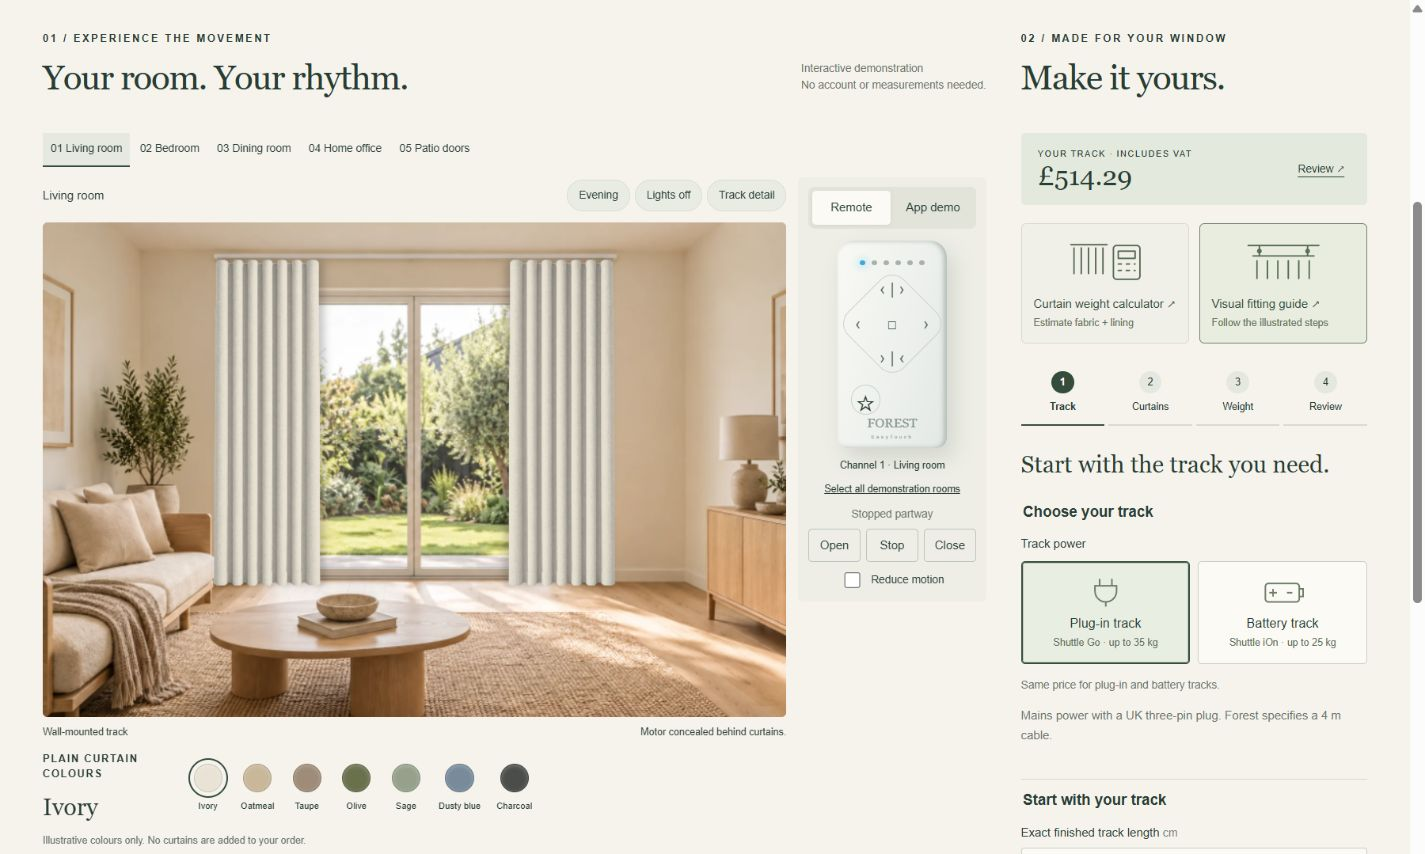
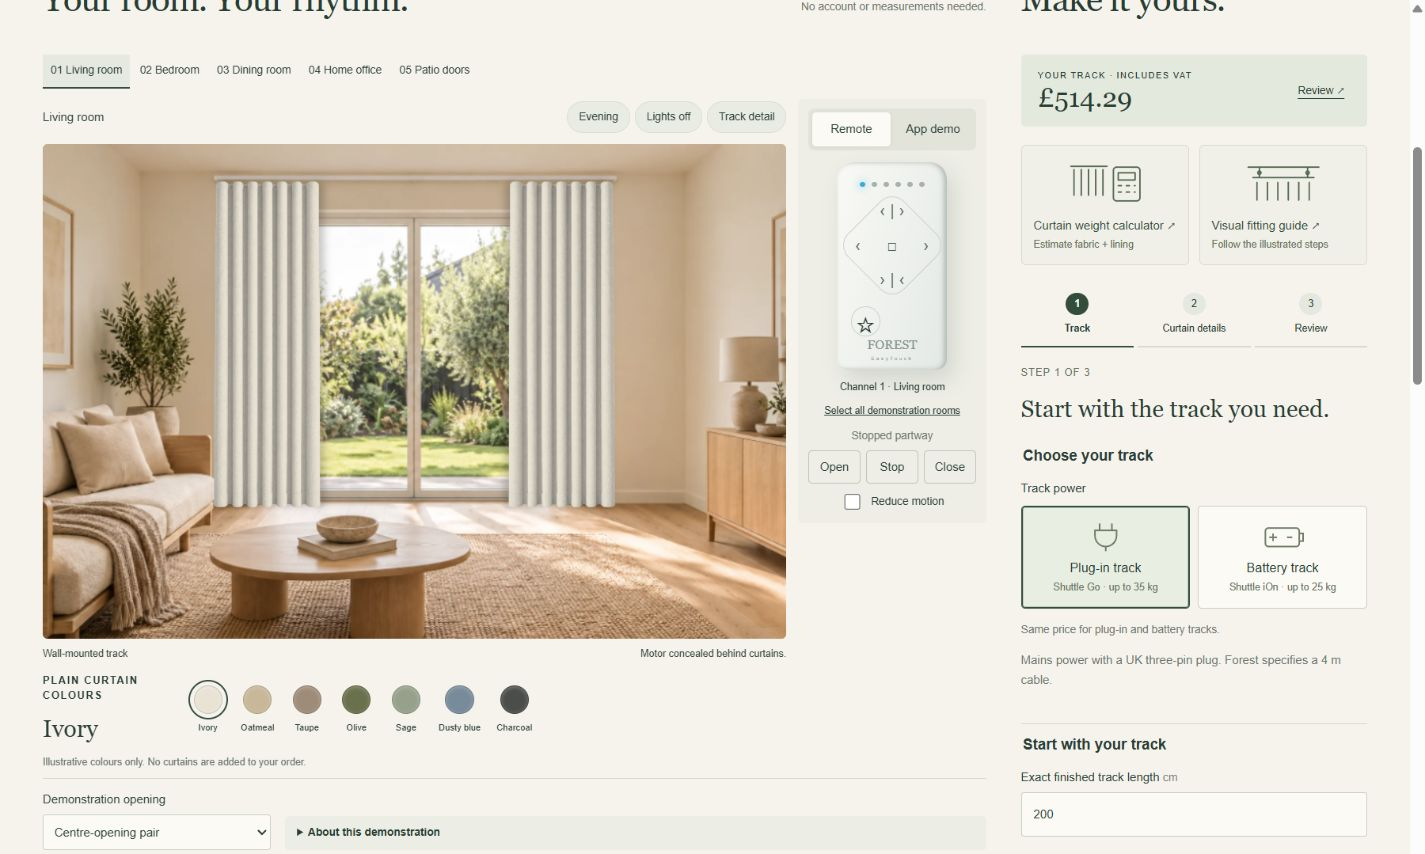
Make curtain weight optional with a clear estimate card

diff --git a/lib/smart-track/runtime/index.html b/lib/smart-track/runtime/index.html
@@ -271,8 +271,7 @@
             <button type="button" data-go-step="1">
               <span>2</span>Curtain details
             </button>
-            <button type="button" data-go-step="2"><span>3</span>Weight</button>
-            <button type="button" data-go-step="3"><span>4</span>Review</button>
+            <button type="button" data-go-step="2"><span>3</span>Review</button>
           </nav>
           <p id="step-progress" class="step-progress" role="status" hidden></p>
           <p class="step-intro" id="step-intro" tabindex="-1" hidden></p>
@@ -423,7 +422,96 @@
                 </div>
               </fieldset>
               <fieldset data-step="2">
-                <legend>Estimate curtain weight</legend>
+                <legend>Ready to save</legend>
+                <div class="two-col">
+                  <label
+                    >Track quantity<input
+                      id="quantity"
+                      type="number"
+                      min="1"
+                      max="50"
+                      step="1"
+                      value="1" /></label
+                  ><label
+                    >Room <span>optional</span
+                    ><select id="order-room">
+                      <option value="">No room assigned</option>
+                    </select></label
+                  >
+                </div>
+                <label class="check"
+                  ><input id="power-confirm" type="checkbox" />
+                  <span id="power-check-label"
+                    >I have checked the mains connection location for the
+                    motor.</span
+                  ></label
+                ><label class="check"
+                  ><input id="measurement-confirm" type="checkbox" /> I have
+                  reviewed the exact finished track length and mounting
+                  position.</label
+                ><label class="check" id="coverage-wrap" hidden
+                  ><input id="coverage-confirm" type="checkbox" /> I have
+                  checked the required track length separately from the curtain
+                  coverage.</label
+                >
+              </fieldset>
+            </form>
+            <aside
+              class="summary"
+              id="track-summary"
+              aria-labelledby="summary-title"
+              data-step="2"
+            >
+              <p class="eyebrow">YOUR SMART TRACK</p>
+              <h3 id="summary-title">Forest Shuttle Go</h3>
+              <p id="included-summary">
+                UK three-pin plug · EasyTouch six-channel remote
+              </p>
+              <dl id="summary-spec"></dl>
+              <p id="review-weight" class="fine"></p>
+              <div class="price" id="product-price" aria-live="polite">
+                Checking price…
+              </div>
+              <p class="fine">Includes VAT, motor, remote and track hardware.</p>
+              <p class="delivery">Delivery £12.95 per order, within our delivery area.</p>
+              <p id="dispatch" class="fine">Dispatch date to be confirmed.</p>
+              <p id="order-availability" class="fine" hidden>Save your track now. Checkout is not yet available.</p>
+              <button id="add-track" class="primary" disabled>
+                Add track to my order ↗
+              </button>
+              <p id="save-status" role="status"></p>
+              <a id="make-curtains" class="make-curtains" href="/pages/fabric-library?view=browse-fabrics" target="_top">Make curtains <span aria-hidden="true">↗</span></a>
+              <p class="fine">Choose a fabric and create your curtains.</p>
+              <a href="/pages/build-my-rooms" target="_top"
+                >Open Design My Home →</a
+              >
+            </aside>
+          </div>
+          <p id="step-error" class="step-error" role="alert" hidden></p>
+          <div class="step-actions" hidden>
+            <button id="step-back" type="button">← Back</button
+            ><button id="step-next" type="button" class="primary">
+              Next: curtain details →
+            </button>
+          </div>
+          <p class="configuration-assurance">
+            Cut to your length. All track hardware included.<br />Supply only ·
+            no fitting service.
+          </p>
+        </section>
+      </div>
+      <section class="optional-weight" aria-label="Optional curtain weight calculator">
+        <details id="weight-details">
+          <summary>
+            <svg viewBox="0 0 70 54" aria-hidden="true"><rect x="18" y="5" width="34" height="44" rx="4"/><path d="M25 12h20v9H25Zm0 17h4m7 0h4m-15 9h4m7 0h4"/></svg>
+            <span><strong>Check curtain weight</strong><small>Optional estimate for your curtains</small></span>
+            <span class="weight-expand" aria-hidden="true">+</span>
+          </summary>
+          <div class="weight-helper-body">
+              <fieldset id="weight-helper">
+                <legend>Your curtain details</legend>
+                <div class="weight-calculator-grid">
+                <div class="weight-fields">
                 <div class="weight-inputs two-col">
                   <label
                     >Total curtain width <span>cm, before gather</span
@@ -493,113 +581,28 @@
                     differs.
                   </p>
                 </div>
-                <p class="fine">
-                  Use the combined width of all curtains on this track. Gather 2
-                  means twice that width in fabric. For flat fabric width, enter
-                  gather 1.
-                </p>
+                <details class="weight-measure-help">
+                  <summary>How to enter your measurements</summary>
+                  <p>Use the combined width of all curtains on this track, including cloth in headings and hems. Gather 2 means twice that width in fabric. For flat fabric width, enter gather 1. Lining uses the same area and gather.</p>
+                </details>
                 <p id="saved-weight-note" class="fine" hidden>
                   A previously saved weight check is retained. Changing these
                   measurements replaces it with a fabric estimate.
                 </p>
-                <p id="weight-result" role="status">
-                  Enter the four details to see your estimate.
-                </p>
-                <p class="fine">
-                  Includes lining when its GSM is entered. Interlining, hooks
-                  and fittings add weight. Check the complete curtain weight
-                  against your motor's limit.
-                </p>
-              </fieldset>
-              <fieldset data-step="3">
-                <legend>Ready to save</legend>
-                <div class="two-col">
-                  <label
-                    >Track quantity<input
-                      id="quantity"
-                      type="number"
-                      min="1"
-                      max="50"
-                      step="1"
-                      value="1" /></label
-                  ><label
-                    >Room <span>optional</span
-                    ><select id="order-room">
-                      <option value="">No room assigned</option>
-                    </select></label
-                  >
                 </div>
-                <label class="check"
-                  ><input id="power-confirm" type="checkbox" />
-                  <span id="power-check-label"
-                    >I have checked the mains connection location for the
-                    motor.</span
-                  ></label
-                ><label class="check"
-                  ><input id="measurement-confirm" type="checkbox" /> I have
-                  reviewed the exact finished track length and mounting
-                  position.</label
-                ><label class="check" id="coverage-wrap" hidden
-                  ><input id="coverage-confirm" type="checkbox" /> I have
-                  checked the required track length separately from the curtain
-                  coverage.</label
-                >
+                <div id="weight-result" role="status" aria-atomic="true">
+                  <span id="weight-result-label">Estimated weight per track</span>
+                  <strong id="weight-total" class="weight-total is-empty">Not calculated</strong>
+                  <p id="weight-result-detail">Enter width, height, gather and fabric GSM to see your estimate.</p>
+                  <p class="weight-guide-note">Guide only, not an exact curtain weight.</p>
+                  <p class="weight-result-footnote">Interlining, hooks and fittings add weight. Weigh the complete curtains to confirm the load.</p>
+                </div>
+                </div>
               </fieldset>
-            </form>
-            <aside
-              class="summary"
-              id="track-summary"
-              aria-labelledby="summary-title"
-              data-step="3"
-            >
-              <p class="eyebrow">YOUR SMART TRACK</p>
-              <h3 id="summary-title">Forest Shuttle Go</h3>
-              <p id="included-summary">
-                UK three-pin plug · EasyTouch six-channel remote
-              </p>
-              <dl id="summary-spec"></dl>
-              <p id="review-weight" class="fine"></p>
-              <div class="price" id="product-price" aria-live="polite">
-                Checking price…
-              </div>
-              <p class="fine">
-                Product price includes VAT.<br />All required track hardware
-                included.
-              </p>
-              <p class="delivery">
-                £12.95 delivery once per order containing a smart track, within
-                our approved delivery area.
-              </p>
-              <p id="dispatch">
-                Track dispatch time awaiting confirmation. All ordered products
-                dispatch together.
-              </p>
-              <p class="fine">Supply only. No fitting or electrical work.</p>
-              <div id="quote-issues" role="status"></div>
-              <button id="add-track" class="primary" disabled>
-                Add track to my order ↗
-              </button>
-              <p id="save-status" role="status"></p>
-              <a id="make-curtains" class="make-curtains" href="/pages/fabric-library?view=browse-fabrics" target="_top">Make curtains <span aria-hidden="true">↗</span></a>
-              <p class="fine">Choose a fabric and create your curtains.</p>
-              <a href="/pages/build-my-rooms" target="_top"
-                >Open Design My Home →</a
-              >
-            </aside>
+            <button id="weight-back-to-track" type="button">Back to my track ↑</button>
           </div>
-          <p id="step-error" class="step-error" role="alert" hidden></p>
-          <div class="step-actions" hidden>
-            <button id="step-back" type="button">← Back</button
-            ><button id="step-next" type="button" class="primary">
-              Next: curtain details →
-            </button>
-          </div>
-          <p class="configuration-assurance">
-            Cut to your length. All track hardware included.<br />Supply only ·
-            no fitting service.
-          </p>
-        </section>
-      </div>
+        </details>
+      </section>
       <section class="technology-highlights" aria-labelledby="technology-title">
         <p class="eyebrow">SMART BY DESIGN</p>
         <h2 id="technology-title">Simple controls. Smarter living.</h2>

diff --git a/lib/smart-track/runtime/studio.css b/lib/smart-track/runtime/studio.css
@@ -656,19 +656,6 @@ details li {
   border-top: 1px solid #bcc6b4;
   padding-top: 17px;
 }
-#quote-issues details {
-  padding: 10px;
-  font-size: 11px;
-  background: #f5f2e6;
-}
-#quote-issues ul {
-  padding-left: 16px;
-}
-#weight-result {
-  font-size: 12px;
-  background: #e8ede0;
-  padding: 12px;
-}
 #save-status {
   font-size: 12px;
 }
@@ -1202,7 +1189,7 @@ footer {
 }
 .configuration-steps {
   display: grid;
-  grid-template-columns: repeat(4, 1fr);
+  grid-template-columns: repeat(3, 1fr);
   gap: 4px;
   margin: 20px 0 18px;
 }
@@ -1316,15 +1303,9 @@ footer {
 #track-form .route-choice label:last-of-type {
   margin-bottom: 0;
 }
-#power-help,
-#weight-result {
+#power-help {
   font-size: 12px;
   line-height: 1.65;
-}
-#weight-result {
-  background: #e9eee2;
-  padding: 13px;
-  border-radius: 4px;
 }
 .quick-quote button {
   border: 0;
@@ -1337,7 +1318,7 @@ footer {
   grid-template-columns: 1fr;
 }
 #estimate-weight .two-col,
-[data-step="3"] .two-col {
+[data-step="2"] .two-col {
   grid-template-columns: 1fr 1fr;
 }
 @media (min-width: 1100px) {
@@ -1506,6 +1487,43 @@ footer {
 #linked-info:empty { display: none; }
 .step-progress { margin: 18px 0 -10px; color: #687260; font-size: 10px; letter-spacing: 1px; text-transform: uppercase; }
 .technology-highlights { margin-top: 64px; padding: 36px 0 16px; border-top: 1px solid #d6dace; }
+.optional-weight { margin-top: 42px; }
+#weight-details { border: 1px solid #d6dace; border-radius: 7px; background: #ecefe5; scroll-margin-top: 80px; }
+#weight-details > summary { display: grid; grid-template-columns: 52px 1fr 24px; gap: 18px; align-items: center; padding: 22px; cursor: pointer; list-style: none; }
+#weight-details > summary::-webkit-details-marker { display: none; }
+#weight-details summary svg { width: 52px; height: 48px; fill: none; stroke: #52674e; stroke-width: 1.8; stroke-linecap: round; }
+#weight-details summary strong { display: block; font: 25px/1.2 Georgia,serif; }
+#weight-details summary small { display: block; font-size: 12px; color: #687260; margin-top: 6px; }
+.weight-expand { font-size: 26px; text-align: center; }
+#weight-details[open] .weight-expand { transform: rotate(45deg); }
+.weight-helper-body { padding: 4px 28px 28px; }
+#weight-helper { margin: 0 0 18px; padding: 0; border: 0; }
+#weight-helper legend { font: 14px Arial,sans-serif; font-weight: 600; padding: 0; margin-bottom: 20px; }
+.weight-calculator-grid { display: grid; grid-template-columns: minmax(0,1.25fr) minmax(260px,1fr); gap: 32px; align-items: start; }
+.weight-fields label { margin-top: 0; }
+.weight-fields .two-col { gap: 16px 20px; }
+#weight-helper .lining-check { margin: 5px 0 18px; }
+#weight-helper #lining-weight-wrap { background: #f8f8f2; padding: 16px; border-radius: 5px; margin-bottom: 18px; }
+#weight-helper .lining-preset { margin-bottom: 14px; }
+.weight-measure-help { color: #52674e; font-size: 12px; line-height: 1.6; }
+.weight-measure-help summary { cursor: pointer; text-decoration: underline; text-underline-offset: 3px; }
+.weight-measure-help p { margin-bottom: 0; }
+#weight-result { padding: 28px; background: #f8f9f3; border: 1px solid #d0d9c6; border-radius: 6px; }
+#weight-result-label { display: block; font-size: 12px; color: #52674e; }
+.weight-total { display: block; font: 58px/1.1 Georgia,serif; color: #344d3b; margin: 16px 0; letter-spacing: -1px; }
+.weight-total.is-empty { font-size: 28px; letter-spacing: 0; }
+#weight-result-detail { font-size: 12px; line-height: 1.6; margin: 0 0 22px; }
+.weight-guide-note { font-size: 13px; line-height: 1.5; font-weight: 600; color: #52674e; padding-top: 18px; border-top: 1px solid #d5ddcd; margin: 0 0 8px; }
+.weight-result-footnote { font-size: 11px; line-height: 1.6; color: #687260; margin: 0; }
+@media(max-width:700px) {
+  #weight-details > summary { padding: 18px; gap: 10px; grid-template-columns: 40px 1fr 20px; }
+  #weight-details summary svg { width: 40px; }
+  #weight-details summary strong { font-size: 22px; }
+  .weight-helper-body { padding: 0 18px 18px; }
+  .weight-calculator-grid { grid-template-columns: minmax(0,1fr); gap: 24px; }
+  #weight-result { padding: 22px; }
+  .weight-total { font-size: 48px; }
+}
 .technology-highlights h2 { font: 34px/1.15 Georgia,serif; margin: 12px 0 28px; }
 .technology-grid { display: grid; grid-template-columns: repeat(3,minmax(0,1fr)); gap: 18px; }
 .technology-card { padding: 26px; background: #ecefe5; border: 1px solid #dce1d2; border-radius: 7px; }

diff --git a/docs/smart-track-studio/REVIEW.md b/docs/smart-track-studio/REVIEW.md
@@ -5,11 +5,13 @@ Candidate based on protected `release/production` at `5b6f4aeb98c5a5e57427ae4311
 ## Customer journey
 
 - `/pages/smart-track-studio`: immediate controls and five luxury photographic rooms inspired by the owner's references. The owner's later direction replaces the catalogue demonstration with seven illustrative plain colours applied to the existing Curtain Style wave form. Centre/one-way opening, stop/resume/reverse, shared remote/app positions, group selection, day/evening, room lights and accessible controls remain. The sixth remote channel is deliberately unassigned in this five-room demonstration.
-- Bedroom and patio illustrate ceiling-mounted tracks; the other three rooms show wall mounting. The motor is concealed in normal room views, with a separate explanatory hardware cutaway. Controls and captions sit outside the photograph. Desktop room and remote remain visible beside the four-step configuration. Mobile keeps a compact room and Open/Stop/Close panel visible. The shop iframe uses parent viewport messages and one outer page scroll, following the existing Cushion Studio approach.
+- Bedroom and patio illustrate ceiling-mounted tracks; the other three rooms show wall mounting. The motor is concealed in normal room views, with a separate explanatory hardware cutaway. Controls and captions sit outside the photograph. Desktop room and remote remain visible beside the three-step configuration. Mobile keeps a compact room and Open/Stop/Close panel visible. The shop iframe uses parent viewport messages and one outer page scroll, following the existing Cushion Studio approach.
 - Go and battery iOn are separate system identities at the same price. App and Forest Link favourite demonstrations apply to Go; the iOn choice disables these unsupported controls. The actual included controller is Forest EasyTouch six-channel matt white, article 5201081006, based on the owner photo and supplied manual.
 - The first step presents Plug-in track (Shuttle Go) and Battery track (Shuttle iOn) as illustrated choices with equal pricing. Configuration keeps exact customer length text, mounting, motor side viewed from inside facing the window, compatible heading, 60/80 mm wave spacing, power check, weight evidence, quantity and optional room. There is no curtain-origin question; links from existing curtain items are retained automatically. Eyelet and curved/bay tracks are excluded.
 - Illustrated shortcut cards open the curtain weight calculator and the separate visual fitting guide. The last step offers Add track to my order (Update when editing) and Make curtains, which opens the established fabric browser with optional room context.
-- The guided flow shows Step 1 of 4 through Step 4 of 4, explicit Next buttons for Track → Curtain details → Weight → Review, and Back controls that retain entered values. Only the final step shows order actions.
+- The guided flow shows Step 1 of 3 through Step 3 of 3, explicit Next buttons for Track → Curtain details → Review, and Back controls that retain entered values. Only the final step shows order actions.
+- Weight is an optional expandable calculator below the guided configuration. A separate result card displays the estimated kilograms per track and “Guide only, not an exact curtain weight.” Standard/custom lining updates that total; missing lining GSM is explicitly a fabric-only partial estimate. Unchecked weight does not add a required wizard step or imply load approval.
+- The price review is compact: the long supplier-decision checklist stays in the review documentation and server checks. Customer-facing price, order-level delivery, dispatch status and a brief save/checkout availability message remain. Pencil and Pinch no longer show “Base price” beneath their labels.
 - Bottom-of-page illustrated technology highlights distinguish Go-only built-in Wi-Fi/Forest Connect from the included EasyTouch remote on both systems, and explain the equally priced plug-in/battery choice. No additional dongle or unsupported iOn app control is advertised.
 - Live server price, exact decimal price bands, stale-response protection, weight helper and measurement illustrations. Customer configuration remains savable while unresolved package facts block ordering.
 - Track-only, multi-track and every curtain/cushion combination use Design My Home's existing device persistence, edit identity, revisions, order review and Shopify transport. Trying rooms never creates products. A linked curtain is re-read from its signed receipt and revalidated when changed. If its retained identity is replaced, relink it explicitly.
@@ -100,9 +102,11 @@ The initial candidate's protected cumulative gate passed all 11 capability group
 
 TypeScript and focused ESLint pass for the production code. Including the existing local preview harness in ESLint reports its three pre-existing explicit `any` declarations; this candidate adds no new lint suppressions or explicit `any` declarations. Existing cushion raw-asset build verification also passes.
 
-Browser rehearsal uses `scripts/my-home-preview.ts` on localhost with synthetic commercial authorities. The original commerce rehearsal covered both motors, 100.5 cm wave price, iOn 25 kg check, save/edit identity, delivery £12.95 and the separate fitting journeys. The updated rehearsal covers photographic rooms, ceiling mounting, plain colours, lights, shared remote/app motion, the four-step form, standard/custom lining estimates and save/reopen/edit persistence. `/smart-track-embedded-preview` runs the actual theme section script locally to verify viewport pinning on desktop and 390×844 mobile. No live customer account, device, Shopify draft or payment was used. The production signed proxy and migrated hosted payment path still require scoped release smoke tests.
+Browser rehearsal uses `scripts/my-home-preview.ts` on localhost with synthetic commercial authorities. The original commerce rehearsal covered both motors, 100.5 cm wave price, iOn 25 kg check, save/edit identity, delivery £12.95 and the separate fitting journeys. The updated rehearsal covers photographic rooms, ceiling mounting, plain colours, lights, shared remote/app motion, the three-step form, standard/custom lining estimates and save/reopen/edit persistence. `/smart-track-embedded-preview` runs the actual theme section script locally to verify viewport pinning on desktop and 390×844 mobile. No live customer account, device, Shopify draft or payment was used. The production signed proxy and migrated hosted payment path still require scoped release smoke tests.
 
-Review screenshots: [desktop studio](screenshots/studio-desktop.jpg), [mobile studio](screenshots/studio-mobile.jpg), [lining calculator](screenshots/studio-lining.jpg), [desktop fitting guide](screenshots/fitting-desktop.jpg), [mobile fitting guide](screenshots/fitting-mobile.jpg).
+The latest browser check advances through Track → Curtain details → Review without weight entry, opens the optional calculator from the illustrated shortcut, and returns to the same review step. Its result card shows 3.0 kg unlined, 5.0 kg with standard lining, 5.5 kg with custom lining, and explicitly labels a missing-lining subtotal. The calculator fits a 390×844 viewport without horizontal overflow. The compact review and heading labels were also checked in the rendered page.
+
+Review screenshots: [desktop studio](screenshots/studio-desktop.jpg), [mobile studio](screenshots/studio-mobile.jpg), [lining calculator](screenshots/studio-lining.jpg), [mobile weight result](screenshots/studio-weight-mobile.jpg), [desktop fitting guide](screenshots/fitting-desktop.jpg), [mobile fitting guide](screenshots/fitting-mobile.jpg).
 
 Local commands:
 
